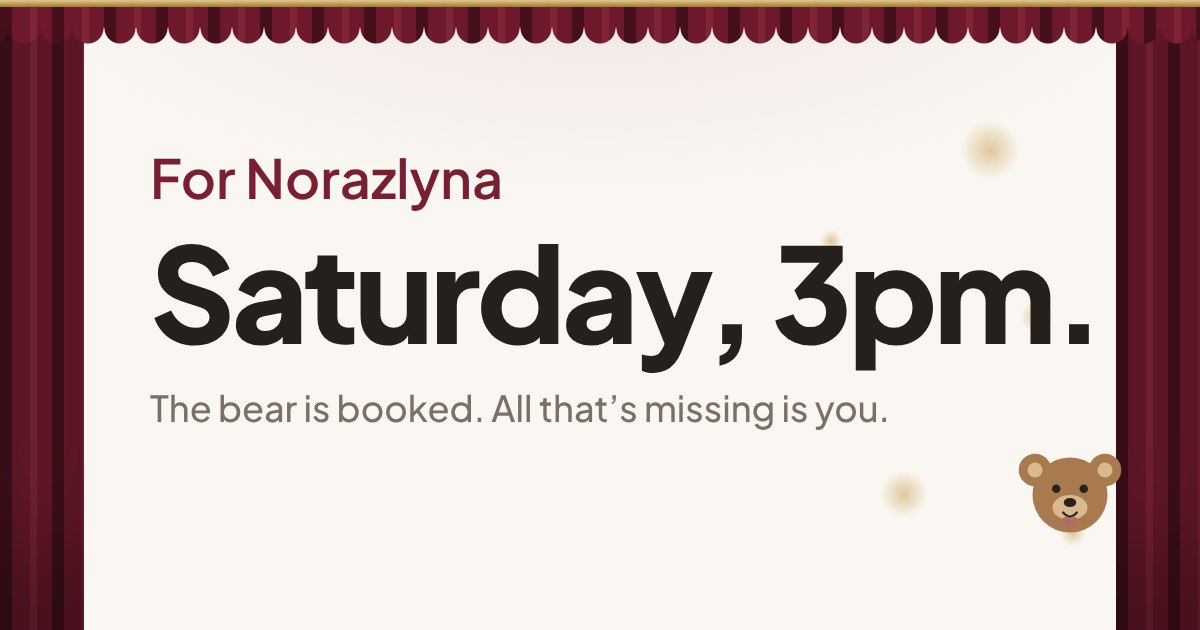
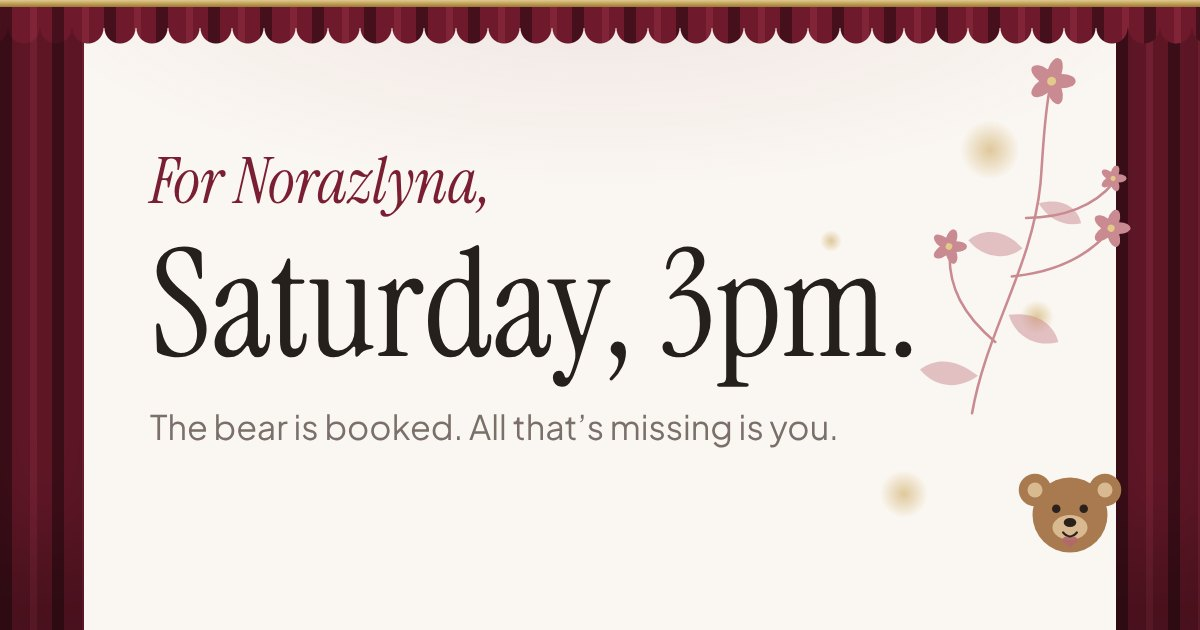
feat: norazlyna page, serif headings and flowers

diff --git a/norazlyna/index.html b/norazlyna/index.html
@@ -19,7 +19,7 @@
 <link rel="icon" href="/favicon.ico">
 <link rel="preconnect" href="https://fonts.googleapis.com">
 <link rel="preconnect" href="https://fonts.gstatic.com" crossorigin>
-<link href="https://fonts.googleapis.com/css2?family=Plus+Jakarta+Sans:ital,wght@0,400;0,500;0,600;0,700;0,800;1,400;1,500&display=swap" rel="stylesheet">
+<link href="https://fonts.googleapis.com/css2?family=Instrument+Serif:ital@0;1&family=Plus+Jakarta+Sans:ital,wght@0,400;0,500;0,600;0,700;1,400&display=swap" rel="stylesheet">
 <script src="https://cdn.jsdelivr.net/npm/gsap@3.15.1/dist/gsap.min.js"></script>
 <script src="https://cdnjs.cloudflare.com/ajax/libs/canvas-confetti/1.9.4/confetti.min.js"></script>
 <style>
@@ -29,15 +29,15 @@
     --paper:#FFFFFF; --paper-ink:#26201D; --paper-muted:#857A74;
   }
   *,*::before,*::after{ box-sizing:border-box; }
-  html{ -webkit-text-size-adjust:100%; }
+  html{ -webkit-text-size-adjust:100%; overflow-x:hidden; }
   body{
-    margin:0; min-height:100vh; overflow-x:hidden;
-    font-family:"Plus Jakarta Sans", "Segoe UI", system-ui, -apple-system, sans-serif; font-size:1.05rem; line-height:1.6; font-weight:400; letter-spacing:.004em;
+    margin:0; min-height:100vh; overflow-x:hidden; overflow-x:clip; position:relative;
+    font-family:"Plus Jakarta Sans", "Segoe UI", system-ui, -apple-system, sans-serif; font-size:1.04rem; line-height:1.65; font-weight:400; letter-spacing:.006em;
     background:var(--bg); color:var(--ink); -webkit-font-smoothing:antialiased;
     background-image:radial-gradient(ellipse 80% 40% at 50% -5%, rgba(122,31,51,.07), transparent 70%);
   }
   body.locked{ overflow:hidden; height:100vh; }
-  h1,h2,h3{ font-weight:700; line-height:1.15; margin:0; letter-spacing:-.012em; }
+  h1,h2,h3{ font-family:"Instrument Serif", Georgia, serif; font-weight:400; line-height:1.08; margin:0; letter-spacing:0; }
   p{ margin:0; }
 
   /* ---------- curtain ---------- */
@@ -63,11 +63,13 @@
   .rod{ position:absolute; top:0; left:0; right:0; height:8px; background:linear-gradient(var(--gold-2), #9a7a33); z-index:4; }
   .plaque{
     position:absolute; left:50%; top:21vh; transform:translateX(-50%); z-index:4; width:min(84vw, 23rem);
-    background:var(--paper); color:var(--ink); padding:1.5rem 1.5rem 1.4rem; text-align:left; border-radius:14px;
+    background:var(--paper); color:var(--ink); padding:1.5rem 1.5rem 1.4rem; text-align:left; border-radius:14px; overflow:visible;
     box-shadow:0 30px 60px rgba(0,0,0,.5);
   }
-  .plaque .date{ font-size:.92rem; font-weight:600; color:var(--wine); margin-bottom:.4rem; }
-  .plaque h1{ font-size:clamp(2rem, 8.5vw, 2.6rem); font-weight:800; }
+  .plaque .date{ font-size:.9rem; font-weight:500; color:var(--wine); margin-bottom:.45rem; }
+  .plaque h1{ font-size:clamp(2.6rem, 11vw, 3.4rem); }
+  .plaque h1 em{ font-style:italic; }
+  .plaque .flora{ position:absolute; right:-1.7rem; top:-2.4rem; width:6.8rem; height:auto; color:var(--rose); transform:rotate(16deg); pointer-events:none; }
   .plaque .when{ font-size:1.02rem; color:var(--muted); margin-top:.55rem; line-height:1.5; }
   .cord{ position:absolute; left:50%; top:calc(21vh + 12.6rem); z-index:5; width:7rem; margin-left:-3.5rem; text-align:center; cursor:grab; touch-action:none; -webkit-tap-highlight-color:transparent; user-select:none; }
   .cord:active{ cursor:grabbing; }
@@ -86,8 +88,12 @@
 
   /* ---------- page ---------- */
   main{ position:relative; z-index:1; max-width:33rem; margin:0 auto; padding:calc(env(safe-area-inset-top) + 9vh) 1.4rem 5rem; }
-  .salute{ font-weight:800; font-size:clamp(2.2rem, 9vw, 3rem); line-height:1.05; letter-spacing:-.02em; margin:0 0 .5rem; }
-  .intro{ font-size:1.12rem; color:var(--muted); margin:0 0 1.8rem; max-width:28rem; }
+  .salute{ font-style:italic; font-size:clamp(3rem, 12vw, 4rem); line-height:1; margin:0 0 .6rem; }
+  .intro{ font-size:1.08rem; color:var(--muted); margin:0 0 1.8rem; max-width:27rem; }
+  .flora-top{ position:absolute; right:-2.6rem; top:-1.2rem; width:11rem; height:auto; color:var(--rose); opacity:.55; transform:rotate(22deg); pointer-events:none; z-index:0; }
+  .flora-end{ position:absolute; left:-2.8rem; bottom:-1.6rem; width:10rem; height:auto; color:var(--rose); opacity:.5; transform:rotate(-150deg); pointer-events:none; z-index:0; }
+  .hero{ position:relative; z-index:1; }
+  footer{ position:relative; }
 
   .cardwrap{ position:relative; padding-top:2rem; }
   .mascot{ position:absolute; right:1.5rem; top:0; width:4.4rem; z-index:2; cursor:pointer; -webkit-tap-highlight-color:transparent; transform-origin:50% 100%; }
@@ -99,14 +105,14 @@
   .card{ position:relative; z-index:1; background:var(--paper); border-radius:16px; overflow:hidden; box-shadow:0 30px 50px -26px rgba(60,20,25,.35), 0 10px 20px -12px rgba(60,20,25,.18), 0 0 0 1px var(--line); transition:transform .5s ease; }
   .card::before,.card::after{ content:""; position:absolute; right:calc(5.2rem - 11px); width:22px; height:22px; border-radius:50%; background:var(--bg); box-shadow:inset 0 0 0 1px var(--line); z-index:2; }
   .card::before{ top:-11px; } .card::after{ bottom:-11px; }
-  .band{ background:var(--wine-deep); color:#fff; font-size:.9rem; font-weight:700; padding:.75rem 1.15rem; }
+  .band{ background:var(--wine-deep); color:#fff; font-size:.9rem; font-weight:500; padding:.75rem 1.15rem; }
   .tbody{ display:grid; grid-template-columns:1fr 5.2rem; }
   .tmain{ padding:1.05rem 1.15rem 1.15rem; display:flex; flex-direction:column; }
-  .kicker{ font-size:.82rem; color:var(--paper-muted); font-weight:600; }
-  .venue{ font-weight:800; font-size:1.75rem; line-height:1.1; letter-spacing:-.015em; margin:.25rem 0 .2rem; }
+  .kicker{ font-size:.82rem; color:var(--paper-muted); font-weight:500; }
+  .venue{ font-family:"Instrument Serif", Georgia, serif; font-size:2.15rem; line-height:1; margin:.2rem 0 .25rem; }
   .sub{ font-size:.92rem; color:var(--paper-muted); }
   dl{ margin:1rem 0 1rem; display:grid; grid-template-columns:auto 1fr; gap:.35rem 1rem; font-size:.95rem; line-height:1.35; }
-  dt{ color:var(--paper-muted); } dd{ margin:0; font-weight:600; }
+  dt{ color:var(--paper-muted); } dd{ margin:0; font-weight:500; }
   .stamp{
     width:max-content; margin:auto 0 0 auto; transform:rotate(-6deg);
     border:2px solid var(--wine); color:var(--wine); border-radius:6px; padding:.32rem .6rem .36rem;
@@ -121,11 +127,11 @@
   .hint.gone{ opacity:0; }
 
   .lede{ margin-top:2.8rem; }
-  .lede p:first-child{ font-size:1.4rem; font-weight:700; line-height:1.35; letter-spacing:-.012em; margin-bottom:.4rem; }
+  .lede p:first-child{ font-family:"Instrument Serif", Georgia, serif; font-size:1.8rem; line-height:1.25; margin-bottom:.4rem; }
   .count{ color:var(--muted); font-size:1.05rem; }
 
   .plan{ margin-top:4rem; }
-  .plan h2{ font-size:1.9rem; }
+  .plan h2{ font-size:2.5rem; }
   .plan .psub{ color:var(--muted); margin:.3rem 0 1.6rem; }
   .stops{ list-style:none; margin:0; padding:0 0 0 1.8rem; position:relative; --p:0; }
   .stops::before,.stops::after{ content:""; position:absolute; left:4px; top:.7rem; width:2px; border-radius:2px; }
@@ -135,18 +141,18 @@
   .stop:last-child{ padding-bottom:0; }
   .stop::before{ content:""; position:absolute; left:-1.8rem; top:.5rem; width:10px; height:10px; border-radius:50%; background:var(--bg); border:2px solid rgba(38,32,29,.3); transition:background-color .45s ease, border-color .45s ease; }
   .stop.lit::before{ background:var(--wine); border-color:var(--wine); }
-  .when{ display:block; font-size:.88rem; color:var(--muted); font-weight:600; }
-  .stop h3{ font-size:1.3rem; margin:.1rem 0 .25rem; }
+  .when{ display:block; font-size:.88rem; color:var(--muted); font-weight:500; }
+  .stop h3{ font-size:1.7rem; margin:.05rem 0 .25rem; }
   .stop p{ color:var(--muted); font-size:1rem; }
 
   .reply{ margin-top:4rem; }
-  .reply h2{ font-size:1.9rem; }
+  .reply h2{ font-size:2.5rem; }
   .reply .rsub{ color:var(--muted); margin:.3rem 0 1.6rem; }
   .q{ margin-top:1.6rem; }
-  .q label, .q .ql{ display:block; font-weight:700; font-size:1.05rem; margin-bottom:.6rem; }
+  .q label, .q .ql{ display:block; font-weight:600; font-size:1.02rem; margin-bottom:.6rem; }
   .picks{ display:flex; flex-wrap:wrap; gap:.5rem; }
   .pick{
-    font:inherit; font-weight:600; font-size:.95rem; background:#fff; border:1.5px solid var(--line); color:var(--ink);
+    font:inherit; font-weight:500; font-size:.95rem; background:#fff; border:1.5px solid var(--line); color:var(--ink);
     padding:.55em 1em; border-radius:999px; cursor:pointer; -webkit-tap-highlight-color:transparent;
     transition:background-color .2s ease, color .2s ease, border-color .2s ease, transform .15s ease;
   }
@@ -162,7 +168,7 @@
 
   .rsvp-wrap{ margin-top:2.4rem; }
   .rsvp{
-    display:grid; width:100%; padding:1.05rem 1.2rem; font:inherit; font-size:1.15rem; font-weight:700; line-height:1.2;
+    display:grid; width:100%; padding:1rem 1.2rem; font-family:"Instrument Serif", Georgia, serif; font-size:1.5rem; font-weight:400; line-height:1.2;
     background:var(--wine); color:#fff; border:1.5px solid var(--wine); border-radius:999px; cursor:pointer;
     box-shadow:0 16px 30px -14px rgba(91,18,33,.55);
     transition:background-color .5s ease, color .5s ease, border-color .5s ease, transform .15s ease, box-shadow .5s ease; -webkit-tap-highlight-color:transparent;
@@ -173,12 +179,12 @@
   .rsvp.done{ background:#fff; color:var(--ink); border-color:var(--line); box-shadow:none; cursor:default; }
   .rsvp.done .a{ opacity:0; transform:translateY(-6px); }
   .rsvp.done .b{ opacity:1; transform:none; }
-  .wa{ display:inline-block; margin-top:1rem; color:var(--muted); font-weight:600; text-decoration:underline; text-underline-offset:.22em; text-decoration-color:var(--wine); }
+  .wa{ display:inline-block; margin-top:1rem; color:var(--muted); font-weight:500; text-decoration:underline; text-underline-offset:.22em; text-decoration-color:var(--wine); }
   .wa[hidden]{ display:none; }
 
   footer{ margin-top:3.8rem; }
   .ps{ color:var(--muted); margin-bottom:1.4rem; }
-  .sign-off{ font-weight:800; font-size:1.5rem; letter-spacing:-.012em; }
+  .sign-off{ font-family:"Instrument Serif", Georgia, serif; font-style:italic; font-size:2.1rem; }
 
   button:focus-visible, a:focus-visible{ outline:2px solid var(--wine); outline-offset:4px; }
 
@@ -198,8 +204,9 @@
   <div class="valance"></div>
   <div class="rod"></div>
   <div class="plaque">
+    <svg class="flora" aria-hidden="true"><use href="#sprig"/></svg>
     <p class="date">Saturday, 14 November</p>
-    <h1>For Norazlyna</h1>
+    <h1>For <em>Norazlyna</em></h1>
     <p class="when">Three o’clock. Pull the cord when you’re ready.</p>
   </div>
   <div class="cord" id="cord" role="button" tabindex="0" aria-label="Pull to open the curtain">
@@ -211,9 +218,39 @@
 
 <canvas id="glow" aria-hidden="true"></canvas>
 
+<svg width="0" height="0" style="position:absolute" aria-hidden="true">
+  <defs>
+    <symbol id="blossom" viewBox="-14 -14 28 28">
+      <g fill="currentColor"><ellipse rx="4.2" ry="8" cy="-6"/><ellipse rx="4.2" ry="8" cy="-6" transform="rotate(72)"/><ellipse rx="4.2" ry="8" cy="-6" transform="rotate(144)"/><ellipse rx="4.2" ry="8" cy="-6" transform="rotate(216)"/><ellipse rx="4.2" ry="8" cy="-6" transform="rotate(288)"/></g>
+      <circle r="2.6" fill="#E3C98A"/>
+    </symbol>
+    <symbol id="sprig" viewBox="0 0 200 260">
+      <g fill="none" stroke="currentColor" stroke-width="1.7" stroke-linecap="round">
+        <path d="M100 255 C 92 200, 108 150, 96 95 C 90 70, 84 50, 82 30"/>
+        <path d="M97 160 C 120 150, 140 135, 150 110"/>
+        <path d="M100 205 C 75 195, 58 180, 52 155"/>
+        <path d="M94 120 C 118 112, 135 98, 142 80"/>
+      </g>
+      <g fill="currentColor" opacity=".5">
+        <path d="M103 185 C 118 178, 132 180, 140 192 C 128 200, 112 198, 103 185 Z"/>
+        <path d="M96 230 C 80 224, 66 226, 58 238 C 70 246, 86 244, 96 230 Z"/>
+        <path d="M98 140 C 84 132, 70 134, 62 146 C 74 154, 90 152, 98 140 Z"/>
+        <path d="M99 108 C 112 100, 124 102, 130 112 C 120 118, 108 116, 99 108 Z"/>
+      </g>
+      <use href="#blossom" x="66" y="12" width="32" height="32"/>
+      <use href="#blossom" x="137" y="96" width="26" height="26"/>
+      <use href="#blossom" x="39" y="142" width="24" height="24"/>
+      <use href="#blossom" x="132" y="68" width="18" height="18"/>
+    </symbol>
+  </defs>
+</svg>
+
 <main id="page">
+  <div class="hero">
+  <svg class="flora-top" aria-hidden="true"><use href="#sprig"/></svg>
   <h1 class="salute">Norazlyna,</h1>
   <p class="intro">I planned Saturday. Here’s the whole thing, plus a couple of questions only you can answer.</p>
+  </div>
 
   <section class="cardwrap">
     <div class="bubble" id="bubble">You’re naming me on Saturday.</div>
@@ -332,6 +369,7 @@
   </section>
 
   <footer>
+    <svg class="flora-end" aria-hidden="true"><use href="#sprig"/></svg>
     <p class="ps" id="ps">P.S. If you’re reading this at 2:55 on Saturday, I’m already at the gate.</p>
     <p class="sign-off">Irfan</p>
   </footer>
@@ -437,9 +475,9 @@
       ctx.setTransform(dpr, 0, 0, dpr, 0, 0);
     }
     resize();
-    var nm = W < 700 ? 16 : 26, np = W < 700 ? 5 : 8, i;
+    var nm = W < 700 ? 16 : 26, np = W < 700 ? 7 : 11, i;
     for (i = 0; i < nm; i++) motes.push({ x: rnd(0, W), y: rnd(0, H), r: rnd(1.2, 3), v: rnd(5, 14), ph: rnd(0, 6.283), al: rnd(.2, .45), d: rnd(.4, 1) });
-    for (i = 0; i < np; i++) petals.push({ x: rnd(0, W), y: rnd(-H, H), s: rnd(5, 8), v: rnd(10, 20), ph: rnd(0, 6.283), rot: rnd(0, 6.283), spin: rnd(-.8, .8), al: rnd(.22, .42) });
+    for (i = 0; i < np; i++) petals.push({ x: rnd(0, W), y: rnd(-H, H), s: rnd(5, 8), v: rnd(10, 20), ph: rnd(0, 6.283), rot: rnd(0, 6.283), spin: rnd(-.8, .8), al: rnd(.22, .42), bloom: i % 3 === 0 });
     function frame(now) {
       if (!running) return;
       requestAnimationFrame(frame);
@@ -459,7 +497,12 @@
         var x = p.x + px * .6, y = p.y + py * .6, s = p.s;
         ctx.save(); ctx.translate(x, y); ctx.rotate(p.rot);
         ctx.fillStyle = 'rgba(201,138,145,' + p.al + ')';
-        ctx.beginPath(); ctx.moveTo(0, -s); ctx.bezierCurveTo(s * 1.1, -s * .6, s * 1.1, s * .7, 0, s); ctx.bezierCurveTo(-s * 1.1, s * .7, -s * 1.1, -s * .6, 0, -s); ctx.fill();
+        if (p.bloom) {
+          for (var k = 0; k < 5; k++) { ctx.beginPath(); ctx.ellipse(0, -s * .75, s * .42, s * .8, 0, 0, 6.283); ctx.fill(); ctx.rotate(1.2566); }
+          ctx.fillStyle = 'rgba(227,201,138,' + (p.al + .2) + ')'; ctx.beginPath(); ctx.arc(0, 0, s * .28, 0, 6.283); ctx.fill();
+        } else {
+          ctx.beginPath(); ctx.moveTo(0, -s); ctx.bezierCurveTo(s * 1.1, -s * .6, s * 1.1, s * .7, 0, s); ctx.bezierCurveTo(-s * 1.1, s * .7, -s * 1.1, -s * .6, 0, -s); ctx.fill();
+        }
         ctx.restore();
       });
     }
